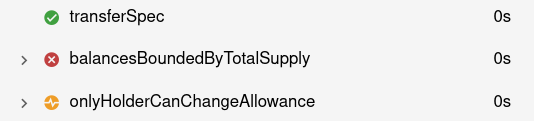
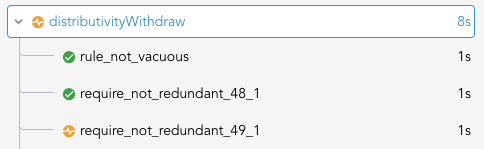
sanity as sub rules DOC-426 (#281)
* added screenshot of how a sanity check looks, and changed general description

* subrule -> sub-rule

* added doc for vacuity

* tautology_subrule

* subrule -> sub-rule

* trivial invariant screenshot and explanation added

* added redundant require screenshot

* added the condition under which redundant requires are not checked

* added vriable quotes for assert and satisfy statement

* line break before screenshot

* updated main image

* updated the description for rule not vacuous

* updating tautology

* non trivial invariant update

* update redundant require

* adding implication sanity structure, checking if I can add an image between *s

* consistent naming with changing sub rules to nodes

* adding missing implication sanity structure pic

* changing *s to numericals

* reworked implication structure cases, added <ID>

* formatted all assertion structure cases

* a singular icon for all assertion structure checks

* * inside numbers

* renaming pics

* naming back to force an update

* an actual rename of the vacuity node screenshot

* renamed invariant pic

* Johannes's CR

diff --git a/docs/prover/checking/sanity.md b/docs/prover/checking/sanity.md
@@ -5,11 +5,11 @@ about certain classes of mistakes in specifications.
 
 There are several kinds of sanity checks:
 
- * {ref}`sanity-vacuity` determine whether rules pass {term}`vacuously <vacuous>` because they rule out all {term}`models <model>`.
- * {ref}`sanity-assert-tautology` determine whether individual `assert` statements are {term}`tautologies <tautology>`.
- * {ref}`sanity-trivial-invariant` detect invariants that hold in all states, rather than just reachable states.
- * {ref}`sanity-assert-structure` detect unnecessarily complex `assert` statements.
- * {ref}`sanity-redundant-require` detect unnecessary `require` statements.
+ * {ref}`sanity-vacuity` determines whether rules pass {term}`vacuously <vacuous>` because they rule out all {term}`models <model>`.
+ * {ref}`sanity-assert-tautology` determines whether individual `assert` statements are {term}`tautologies <tautology>`.
+ * {ref}`sanity-trivial-invariant` detects invariants that hold in all states, rather than just reachable states.
+ * {ref}`sanity-assert-structure` detects unnecessarily complex `assert` statements.
+ * {ref}`sanity-redundant-require` detects unnecessary `require` statements.
 
 The `--rule_sanity` option may be followed by one of `none`, `basic`, or
 `advanced` options to control which sanity checks should be executed:
@@ -23,17 +23,11 @@ The `--rule_sanity` option may be followed by one of `none`, `basic`, or
 We recommend starting with the `basic` mode, since not all rules flagged by the
 `advanced` mode are incorrect.
 
-When the Prover is run with any of these options, it first checks that the rule
-passes; if it does pass then the sanity checks are performed.  If the sanity
-checks also pass, the rule is marked as verified with a green checkmark; if the
-sanity check fails, the rule is marked with a yellow symbol:
+Each option adds new child nodes to every rule in the specification.  If any of the sanity check nodes fails, that node will be marked with a yellow icon, and so will the parent rule's node:
 
 ![Screenshot of rule report showing a passing rule, a failing rule, and a sanity failure](sanity-icons.png)
 
-If a sanity check fails, you can expand the problems view to see the details
-of the failure:
-
-![Screenshot of rule report showing the expanded details of a sanity failure](sanity-details.png)
+Sanity checks have no call trace.  If a sanity node is `halted`, then the parent rule will also have the status `halted`.
 
 The remainder of this document describes these checks in detail.
 
@@ -62,6 +56,10 @@ Since there are no models satisfying both `x > 2` and `x < 1`, this rule
 will always pass, regardless of the behavior of the contract.  This is an
 example of a {term}`vacuous` rule &mdash; one that passes only because the
 preconditions are contradictory.
+
+A vacuity check adds a node called `rule_not_vacuous` to each rule.  For example, the rule report for the above `vacuous` rule will look like this:
+
+![Screenshot of vacuity subrule](vacuity_node.png)
 
 The vacuity check also flags situations where counterexamples are ruled
 out for reasons other than `require` statements.  A common example comes from
@@ -114,6 +112,10 @@ rule tautology {
 Since every `uint` satisfies the assertion, the assertion is tautological, which
 may indicate an error in the specification.
 
+The tautology check will add a node per `assert` or `satisfy` statement to each rule.  The nodes are named with the prefix `assert_not_tautological_<LINE>_<COL>`.  For example, the rule report for the above `tautology` rule will look like this:
+
+![Screenshot of assert tautology subrule](tautology_subrule.png)
+
 (sanity-trivial-invariant)=
 Trivial invariant checks
 ------------------------
@@ -126,7 +128,7 @@ For example, the following invariant is trivial:
 
 ```cvl
 invariant squaresNonNeg(int x)
-    x * x >= 0
+    x * x >= 0;
 ```
 
 While it does hold in every reachable state, it also holds in every
@@ -141,6 +143,10 @@ rule squaresNonNeg(int x) {
 The rule version is more efficient because it can do a single check in an
 arbitrary state rather than separately checking states after arbitrary method
 invocations.
+
+The trivial invariant check will add a node to each method under the induction step of invariants named `invariant_not_trivial_postcondition`.  For example, the rule report for the above `squaresNonNeg` invariant will look like this:
+
+![Screenshot of trivial invariant subrule](trivial_invariant_node.png)
 
 (sanity-assert-structure)=
 Assertion structure checks
@@ -183,21 +189,27 @@ The assertion structure check tries to prove some complex logical statements by
 breaking them into simpler parts.  The following situations are reported by the
 assertion structure check:
 
-* `assert p => q;` is reported as a sanity violation if `p` is false whenever the
-  assertion is reached (in which case the simpler assertion `assert !p;` more
-  clearly describes the situation), or if `q` is always true (in which case
-  `assert q;` is a clearer alternative).
+1. `assert p => q;` is reported as a sanity violation if whenever the assertion is reached:
 
-* `assert p <=> q;` is reported as a sanity violation if either `p` and `q` are
-  both true whenever the assertion is reached (in which case the simpler
-  assertions `assert p; assert q;` more clearly describe the situation), or if
-  neither `p` nor `q` are ever true (in which case `assert !p; assert !q;` is a
-  clearer alternative).
+  * 1. `p` is always false. In this case, `q` is never checked. A simpler way to write this assertion is `assert !p;`. The node named `assertion_left_operand_check_<LINE>_<COL>` will have a yellow icon.
 
-* `assert p || q;` is reported as a sanity violation if either `p` is true
-  whenever the assertion is reached
-  (in which case `assert p;` more clearly describes the situation) or if `q` is
-  always true (in which case `assert q;` is a clearer alternative).
+  * 2. `p` is always true. A simpler way to write this assertion is `assert q;`. The node named `assertion_left_operand_check_<LINE>_<COL>` will have a yellow icon.
+
+  * 3. `q` is always true. A simpler way to write this assertion is `assert p;`. The node named `assertion_right_operand_check_<LINE>_<COL>`.
+
+2. `assert p <=> q;`  is reported as a sanity violation if whenever the assertion is reached:
+
+  * 1. `p` and `q` are both always true. A simpler way to write this assertion is `assert p; assert q;`. The node named `assertion_iff_not_both_true_<LINE>_<COL>` will have a yellow icon.
+
+  * 2. `p` and `q` are both always false. A simpler way to write this assertion is `assert !p; assert !q;`. The node named `assertion_iff_not_both_false_<LINE>_<COL>` will have a yellow icon.
+
+3. `assert p || q;` is reported as a sanity violation if whenever the assertion is reached:
+
+  * 1. `p` is always true. A simpler way to write this assertion is `assert q;`. The node named `assertion_left_operand_check_<LINE>_<COL>` will have a yellow icon.
+
+  * 2. `q` is always true. A simpler way to write this assertion is `assert p;`. The node named `assertion_right_operand_check_<LINE>_<COL>` will have a yellow icon.
+
+![Screenshot of sanity structure for implication](implication_sanity_structure.png)
 
 (sanity-redundant-require)=
 Redundant require checks
@@ -220,3 +232,8 @@ rule require_redundant {
 In this example, the second requirement is redundant, since any `x` greater
 than 3 will also be greater than 2.
 
+The redundant require check will add a node per `require` statement to each rule.  The nodes are named with the prefix `require_not_redundant_<LINE>_<COL>`.
+
+![Screenshot of rule report showing a redundant require check](sanity-icons.png)
+
+Redundant require is an exhaustive check and will only be executed if neither of the checks for {ref}`sanity-trivial-invariant` and {ref}`sanity-assert-tautology` fail.
